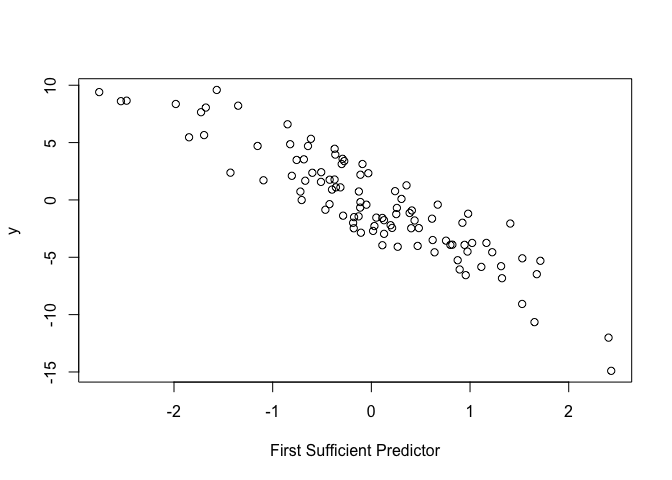
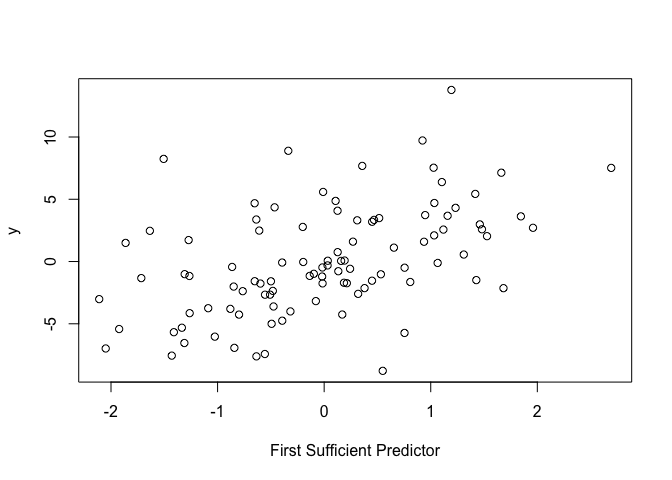
update README according to all the updates that have been done on the functions

diff --git a/README.md b/README.md
@@ -17,7 +17,7 @@ predictors. Specifically, the method aims at replacing the
 infinite-dimensional functional predictors with a few finite predictors
 without losing important information on the conditional quantiles while
 maintaining a flexible nonparametric model. For details of the
-methodology, see Christou et al. (2024+).
+methodology, see Christou et al. (2025+).
 <!-- [Christou, E., Solea, E., Wang, S., and Song, J. (2024+) Sufficient Dimension Reduction for Conditional Quantiles for Functional Data. *Journal*, volume, pages](link) -->
 
 The main function of the package is `fcqs`, which estimates the
@@ -25,8 +25,9 @@ directions of the functional central quantile subspace. However, the
 package includes more functions that are helpful to run `fcqs`.
 Specifically, `mfsir` performs functional sliced inverse regression
 (FSIR) of [Ferré and Yao
-(2003)](https://doi.org/10.1080/0233188031000112845) and `sonf` performs
-scalar-on-function linear regression. Moreover, `fundata` generates
+(2003)](https://doi.org/10.1080/0233188031000112845), `sonf` performs
+scalar-on-function linear regression, and `fpca` performs functional
+principal copmonent analysis (FPCA). Moreover, `fundata` generates
 functional data and `mcorr` computes the multiple correlation between
 two matrices.
 
@@ -68,28 +69,31 @@ The function requires several inputs:
   functional predictors, where $n$ is the number of observations, $nt$
   is the number of time points, and $p$ is the number of predictors.
 - `y` a numeric vector of length $n$ representing the scalar response.
-- `time` a numeric vector of length $nt$ representing the time points at
+- `tt` a numeric vector of length $nt$ representing the time points at
   which the functional data is evaluated.
-- `nbasis` the number of basis functions for smoothing the functional
-  predictors.
-- `tau` the quantile level
+- `tau` the quantile level, a numbeer strictly between 0 and 1.
 - `dtau` the number of directions the user wants to extract. If not
-  provided, the function will return $p$ directions.
+  provided, the function will return $p$ directions.  
+- `nbasis` the number of basis functions for smoothing the functional
+  predictors. Currently, the only option is to use B-spline basis and
+  the default value is 4.
+- `norder` the order of B-splines, which is one higher than their
+  degree. The default value of 4 gives cubic splines.
 
 The function then returns:
 
-- `betacoef` the functional parameters that span the functional central
-  quantile subspace
+- `ffun` the functional parameters that span the functional central
+  quantile subspace ($nbasis \times d_{\tau}$ matrix).
 - `betax` the resulting sufficient predictors, calculated as the inner
-  product between `betacoef` and `x`.
+  product between `betacoef` and `x` ($n \times d_{\tau}$ matrix).
 
 #### Example 1
 
 This is a basic example that shows how to apply the function. First,
 let’s define the basic parameters, such as the sample size, the number
-of predictors, the number of times points, the vector of time points,
-the quantile level, and the number of basis functions that we wish to
-smooth the functional predictors.
+of predictors, the vector of time points, the quantile level, and the
+number of basis functions that we wish to smooth the functional
+predictors.
 
 ``` r
 library(fquantdr)
@@ -98,8 +102,8 @@ library(fquantdr)
 set.seed(1234)
 n <- 100
 p <- 5
-nt <- 101
-time <- seq(0, 1, length = nt)
+nt <- 100
+tt <- seq(0, 1, length = nt)
 tau <- 0.5
 nbasis <- 4
 ```
@@ -107,8 +111,8 @@ nbasis <- 4
 Then, we need to generate the functional predictors and the scalar
 response. For the functional predictors, we can use the `fundata`
 function that is available in the package. An additional argument,
-`eta`, is required for the function and it represents the matrix of
-coefficients with dimensions $n$ by $p \times nbasis$. For the scalar
+`eta`, is required for the function and it represents the array of
+coefficients with dimensions $nbasis \times n \times p$. For the scalar
 response, we use the model
 $$Y = 3 \langle \beta_1, X \rangle + \epsilon,$$ where $\epsilon$ is the
 error term and $\beta_1$ represent an eigenfunction. In this case, the
@@ -118,13 +122,14 @@ $\{\beta_1\}$.
 ``` r
 # Generate the functional predictors
 library(mvtnorm)
-eta <- mvtnorm::rmvnorm(n, mean = rep(0, p * nbasis))
-data.output <- fundata(n, p, nbasis, time, eta)
-xc <- data.output$xc
+#> Warning: package 'mvtnorm' was built under R version 4.4.1
+eta.mat <- mvtnorm::rmvnorm(n, mean = rep(0, p * nbasis))
+eta <- array(eta.mat, dim = c(nbasis, n, p))
+data.output <- fundata(n, p, nbasis, tt, 'fourier', eta)
+xc <- data.output$Xc
 
 # Generate the scalar response
-P <- eigen(cov(eta))$vectors
-mfpca.scores <- eta %*% P
+mfpca.scores <- data.output$mfpca.scores
 error <- rnorm(n)
 y <- 3 * mfpca.scores[, 1] + error
 ```
@@ -133,7 +138,7 @@ Before moving on and for illustration purposes, we plot the first
 functional predictor.
 
 ``` r
-matplot(time, t(xc[, , 1]), type = "l", lty = 1, col = 1:n, xlab = "Time", ylab = "Value", main = paste("Functional Predictor", 1))
+matplot(tt, t(xc[, , 1]), type = "l", lty = 1, col = 1:n, xlab = "Time", ylab = "Value", main = paste("Functional Predictor", 1))
 ```
 
 <img src="man/figures/README-unnamed-chunk-6-1.png" width="100%" />
@@ -143,7 +148,7 @@ new predictor $\langle \beta_1, X \rangle$. We now run the function and
 specify $d_\tau = 1$, so we can obtain the first direction.
 
 ``` r
-result <- fcqs(xc, y, time, nbasis, tau, dtau = 1)
+result <- fcqs(xc, y, tt, tau, dtau = 1, nbasis)
 ```
 
 The first sufficient predictor $\langle \widehat{\beta}_1, X \rangle$ is
@@ -177,7 +182,7 @@ indicates better performance.
 true.pred <- mfpca.scores[, 1]
 est.pred <- result$betax
 mcorr(true.pred, est.pred)
-#> [1] 0.9478022
+#> [1] 0.5198261
 ```
 
 #### Example 2
@@ -192,8 +197,8 @@ $Y = \arctan(\pi \langle \beta_1, X \rangle) + 0.5 \sin(\pi \langle \beta_2, X \
 set.seed(1234)
 n <- 100
 p <- 5
-nt <- 101
-time <- seq(0, 1, length = nt)
+nt <- 100
+tt <- seq(0, 1, length = nt)
 tau <- 0.5
 nbasis <- 4
 
@@ -203,22 +208,22 @@ for (j in 1:p) {
 index.j <-(((j - 1) * nbasis + 1):(j * nbasis))
 diag(SigmaCov[index.j, index.j]) <- c(2, 1, 1/2, 1/4)
 }
-eta <- mvtnorm::rmvnorm(n, mean = rep(0, p * nbasis), sigma = SigmaCov)
+eta.mat <- mvtnorm::rmvnorm(n, mean = rep(0, p * nbasis), sigma = SigmaCov)
+eta <- array(eta.mat, dim = c(nbasis, n, p))
 
 # Generate the functional predictors and the scalar response
-data.output <- fundata(n, p, nbasis, time, eta)
-xc <- data.output$xc
-P <- eigen(cov(eta))$vectors
-mfpca.scores <- eta %*% P
+data.output <- fundata(n, p, nbasis, tt, 'fourier', eta)
+xc <- data.output$Xc
+mfpca.scores <- data.output$mfpca.scores
 error <- rnorm(n)
 y <- mfpca.scores[, 1]^3 + exp(mfpca.scores[, 2]) + error
-result2 <- fcqs(xc, y, time, nbasis, tau, dtau = 2)
+result2 <- fcqs(xc, y, tt, tau, dtau = 2, nbasis)
 
 # Calculate the multiple correlation
 true.pred2 <- mfpca.scores[, 1:2]
 est.pred2 <- result2$betax
 mcorr(true.pred2, est.pred2)
-#> [1] 1.981486
+#> [1] 0.89516
 ```
 
 ## Applications
@@ -230,7 +235,7 @@ limited to, the following fields:
 - Finance
 - Natural Language Processing
 
-For example, Christou et al. (2024+) apply the methodology to an fMRI
+For example, Christou et al. (2025+) apply the methodology to an fMRI
 data set that studies patients with ADHD. Specifically, the authors
 investigate resting-state fMRI data from the [ADHD-200
 Consortium](https://fcon_1000.projects.nitrc.org/indi/adhd200/index.html)
